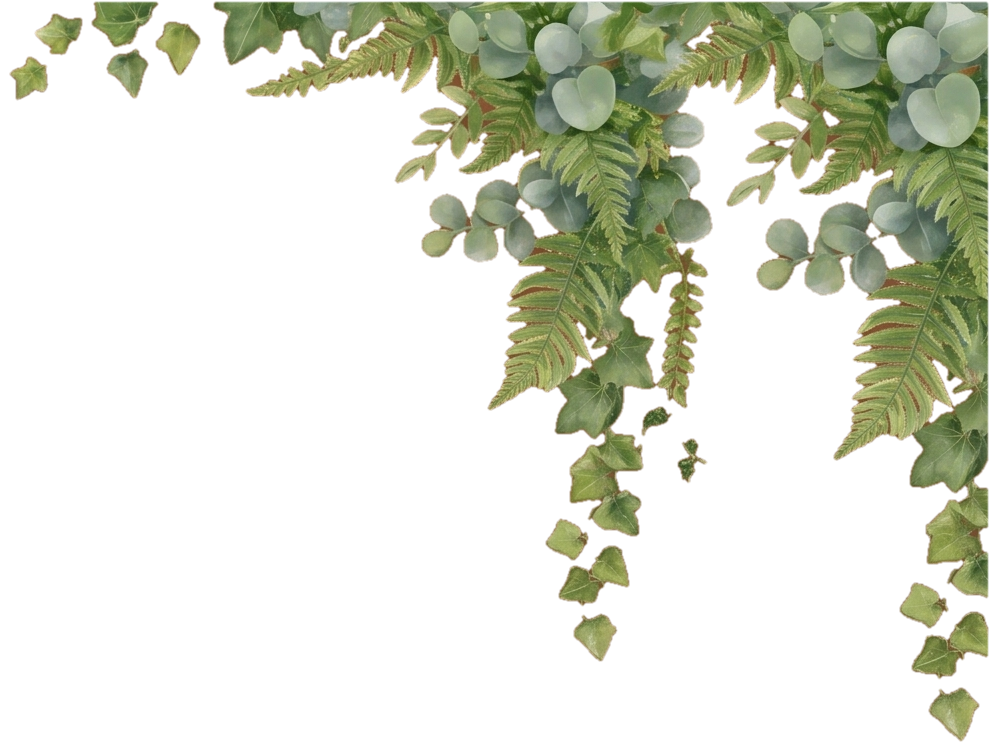
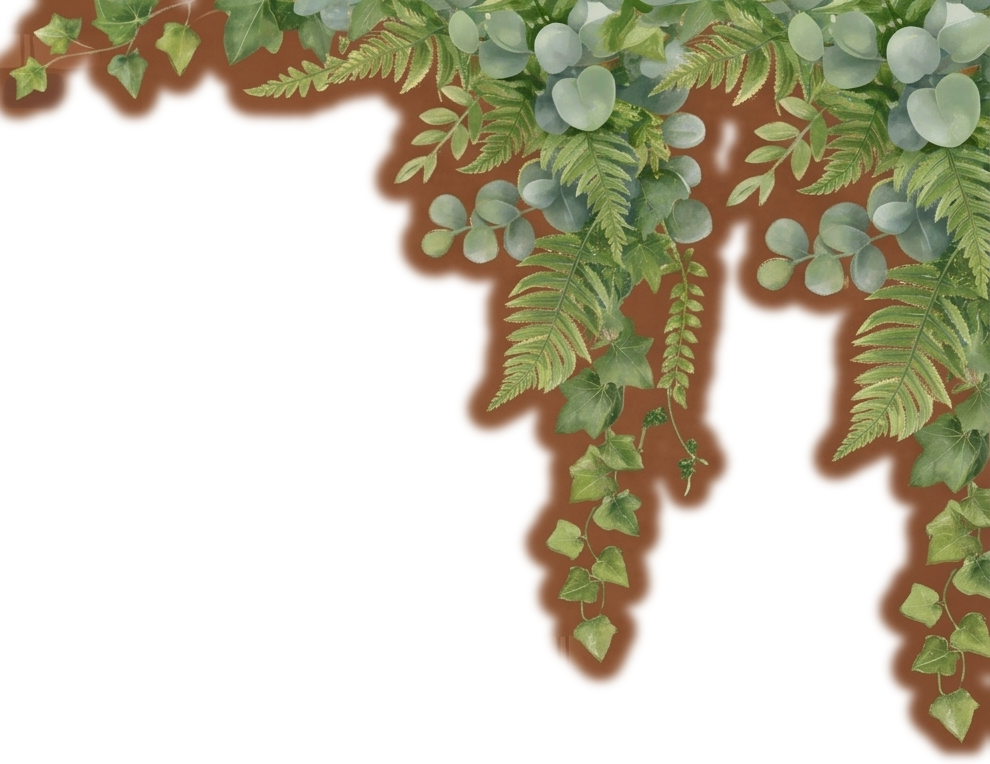
Phase 5: Scene 10 static desktop garlands and mobile top-left-only garland

Changed region(s): [[0.0, 0.0, 1.0, 1.0]]

diff --git a/src/scenes/scenes10to11.js b/src/scenes/scenes10to11.js
@@ -144,8 +144,8 @@ export function initScenes10to11(petals, prefersReducedMotion) {
       '/assets/p10-plant-3.webp',
       '/assets/p10-plant-4.webp',
       '/assets/p10-plant-5.webp',
-      '/assets/p10-garland-left.webp',
-      '/assets/p10-garland-right.webp',
+      '/assets/p10-garland-left.webp?v=2',
+      '/assets/p10-garland-right.webp?v=2',
     ].forEach((src) => {
       const pre = new Image();
       pre.src = src;
@@ -183,29 +183,25 @@ export function initScenes10to11(petals, prefersReducedMotion) {
       };
     });
 
-    // Gentle plant sway tweens (2-4 deg, 3-5s cycles; desktop garlands sway 1.5 deg + 1.02 scale)
+    // Gentle plant sway tweens (corner garlands are completely still)
     const plantTweens = [];
     if (!prefersReducedMotion) {
-      const isDesktop = window.innerWidth >= 1024;
       const plantConfigs = [
-        ['.s10-plant-sway--tl', isDesktop ? 1.5 : 2.6, 3.8, 0, isDesktop ? 1.02 : 1],
-        ['.s10-plant-sway--tr', isDesktop ? 1.5 : 2.8, 4.3, 0.4, isDesktop ? 1.02 : 1],
-        ['.s10-plant-sway--window', 3.2, 4.1, 0.2, 1],
-        ['.s10-pot-leaves--left', 2.8, 4.7, 0.6, 1],
-        ['.s10-pot-leaves--right', 3.4, 3.5, 0.3, 1],
-        ['.s10-plant-sway--bl', 2.5, 4.9, 0.5, 1],
-        ['.s10-plant-sway--br', 2.7, 3.3, 0.1, 1],
+        ['.s10-plant-sway--window', 3.2, 4.1, 0.2],
+        ['.s10-pot-leaves--left', 2.8, 4.7, 0.6],
+        ['.s10-pot-leaves--right', 3.4, 3.5, 0.3],
+        ['.s10-plant-sway--bl', 2.5, 4.9, 0.5],
+        ['.s10-plant-sway--br', 2.7, 3.3, 0.1],
       ];
-      plantConfigs.forEach(([sel, deg, dur, delay, scaleVal]) => {
+      plantConfigs.forEach(([sel, deg, dur, delay]) => {
         const el = scene10.querySelector(sel);
         if (!el) return;
         plantTweens.push(
           gsap.fromTo(
             el,
-            { rotation: -deg, scale: scaleVal },
+            { rotation: -deg },
             {
               rotation: deg,
-              scale: scaleVal,
               duration: dur,
               delay,
               ease: 'sine.inOut',

diff --git a/index.html b/index.html
@@ -273,16 +273,16 @@
     <!-- Normal Section [10] -->
     <section id="scene-10" class="section-scene scene--10" data-scene="10" data-petals="false">
       <div class="s10-stage">
-        <!-- Corner garlands (mobile: p10-plant-2; desktop: p10-garland-left & p10-garland-right) -->
+        <!-- Corner garlands (mobile: static p10-plant-2 top-left only; desktop: static p10-garland-left & p10-garland-right) -->
         <div class="s10-plant s10-plant--corner-tl" aria-hidden="true">
-          <picture class="s10-plant-sway s10-plant-sway--tl">
-            <source media="(min-width: 1024px)" srcset="/assets/p10-garland-left.webp" />
+          <picture class="s10-plant-static">
+            <source media="(min-width: 1024px)" srcset="/assets/p10-garland-left.webp?v=2" />
             <img src="/assets/p10-plant-2.webp" alt="" loading="eager" />
           </picture>
         </div>
         <div class="s10-plant s10-plant--corner-tr" aria-hidden="true">
-          <picture class="s10-plant-sway s10-plant-sway--tr">
-            <source media="(min-width: 1024px)" srcset="/assets/p10-garland-right.webp" />
+          <picture class="s10-plant-static">
+            <source media="(min-width: 1024px)" srcset="/assets/p10-garland-right.webp?v=2" />
             <img src="/assets/p10-plant-2.webp" alt="" loading="eager" />
           </picture>
         </div>

diff --git a/src/styles/scenes10to11.css b/src/styles/scenes10to11.css
@@ -124,31 +124,27 @@
   height: auto;
 }
 
+.s10-plant-static {
+  display: block;
+}
+
 .s10-plant-sway,
 .s10-pot-leaves {
   display: block;
   will-change: transform;
 }
 
-/* p10-plant-2: Corner garlands */
+/* Mobile: one large static garland top-left (behind text), top-right removed */
 .s10-plant--corner-tl {
   top: 0;
-  left: 0;
-  width: 33%;
-  z-index: 5;
+  left: -3%;
+  width: 62%;
+  height: auto;
+  z-index: 2;
 }
 
 .s10-plant--corner-tr {
-  top: 0;
-  right: 0;
-  width: 33%;
-  z-index: 5;
-  transform: scaleX(-1);
-}
-
-.s10-plant-sway--tl,
-.s10-plant-sway--tr {
-  transform-origin: 0% 0%;
+  display: none;
 }
 
 /* p10-plant-3: Hanging plant in window (clear of bride's face) */
@@ -343,17 +339,17 @@
     top: 0%;
     width: 37.28%;
     height: auto;
+    z-index: 4;
   }
   .s10-plant--corner-tr {
+    display: block;
     left: 64.03%;
     right: auto;
     top: 0%;
     width: 35.97%;
     height: auto;
     transform: none;
-  }
-  .s10-plant-sway--tr {
-    transform-origin: 100% 0%;
+    z-index: 4;
   }
   .s10-plant--window {
     top: 14.5%;

diff --git a/SPEC.md b/SPEC.md
@@ -120,8 +120,8 @@ English: We Look Forward to Your Presence! | Only | Days | Hours | Minutes | Sec
 - **Butterfly (Scenes 1 & 2)**: Replace `butterfly.png` with `assets/butterfly-open.png` and `assets/butterfly-closed.png` (both 1024×1024, stacked identically). Scene 1 butterfly always faces left (no mirroring), flaps smoothly with a short frame blend around joint `34%` left / `65%` top, floats gently in place with a small tilt, and on scroll flies toward upper-left while facing left before bursting into sparkles. Scene 2 small butterflies fly continuously across the full screen (off-screen to off-screen, 10–18s crossing, 5–6 on desktop / 3–4 on mobile, staggered with some already on screen on entry), mixing both directions (mirrored when flying right, never flipped while visible), with gentle curved paths, varied flap timings, re-entering with a new height/size/speed, layered behind Brahma and the Bengali text, and paused when off screen.
 - **Sparkles (Scene 1)**: Separate individual stars from `assets/sparkle.png` with code; place groups closer around the butterfly plus 4–6 more small ones in varied sizes (without covering butterfly or text). On desktop (`>=1024px`), add 10–14 extra sparkles on each side across the outer 25% from top to bottom. Every star twinkles independently with random delay and duration (`1.2–3s`).
 - **Scene 10 (Desktop, Mobile, Entry, Wheels, Plants & Wind)**:
-  - **Desktop (`>=1024px`)**: Full-screen `assets/p10-desktop-background.png` (no side bars), heading/names/first paragraph at upper left-centre, bride in window at upper right, second paragraph/dates below window towards centre, groom & bike at lower left (~30% larger, anchored from bottom); whole window, bride, bike, plants, and text visible at `1366×768`, `1536×864`, and `1920×1080`. Corner garlands use unmirrored `p10-garland-left.png` (`left: 0%, top: 0%, width: 37.28%`) and `p10-garland-right.png` (`left: 64.03%, top: 0%, width: 35.97%`), swaying `~1.5°` with `2%` outward scale from top-left / top-right corners. Bottom `p10-plant-1` flowers sit partly outside screen edges (`left: -4%` mirrored / `left: 92%`, `bottom: -1%`, `width: 12.5%`).
-  - **Mobile (`<1024px`)**: Background locked to `1536:2752` at `bottom: 0` so both window shutters and road are never cropped and any extra height fills naturally with terracotta wall; bride (`68%` of frame, `top: 11%`, `left: 62.5%`) sized so tiara-to-hands equals shutter height, tiara level with shutter top, elbows/hands resting on sill, head at `~72–75%` width just right of left shutter and vase, hair hanging slightly below sill and saree trail extending past right edge; bike ~15% larger anchored from bottom; heading/names strictly left of shutter and details below window (`top: 40%`) clear of bride and bike (`360×640`, `390×844`, `430×932`).
+  - **Desktop (`>=1024px`)**: Full-screen `assets/p10-desktop-background.png` (no side bars), heading/names/first paragraph at upper left-centre, bride in window at upper right, second paragraph/dates below window towards centre, groom & bike at lower left (~30% larger, anchored from bottom); whole window, bride, bike, plants, and text visible at `1366×768`, `1536×864`, and `1920×1080`. Corner garlands use unmirrored, completely still `p10-garland-left.png` (`left: 0%, top: 0%, width: 37.28%`) and `p10-garland-right.png` (`left: 64.03%, top: 0%, width: 35.97%`) flush with the top of the scene. Bottom `p10-plant-1` flowers sit partly outside screen edges (`left: -4%` mirrored / `left: 92%`, `bottom: -1%`, `width: 12.5%`).
+  - **Mobile (`<1024px`)**: Background locked to `1536:2752` at `bottom: 0` so both window shutters and road are never cropped and any extra height fills naturally with terracotta wall; one completely still `p10-plant-2.png` garland in top-left (`left: -3%, top: 0, width: 62%`, behind all text) and no top-right garland so window arch is clear; bride (`68%` of frame, `top: 11%`, `left: 62.5%`) sized so tiara-to-hands equals shutter height, tiara level with shutter top, elbows/hands resting on sill, head at `~72–75%` width just right of left shutter and vase, hair hanging slightly below sill and saree trail extending past right edge; bike ~15% larger anchored from bottom; heading/names strictly left of shutter and details below window (`top: 40%`) clear of bride and bike (`360×640`, `390×844`, `430×932`).
   - **Groom Entry & Wheels**: Preloads all Scene 10 images. Uses one `669:373` bike container with `bike-body.webp` on top and two square `bike-wheel.webp` copies behind (rear centre `16.92%` left / `80.75%` top / `17.52%` width; front centre `52.57%` left / `81.50%` top / `18.54%` width). Starts immediately when Scene 10 is ~60% visible (`top 40%` / `bottom 60%`), riding in over `4.0s` (`power2.out`) while rotating each wheel clockwise around its own centre following travel distance (capped at <=1.5 turns/sec) and stopping with the bike. Text appears as he stops; replays only after leaving and returning.
   - **Plants & Wind**: Separate animated plant layers (`p10-plant-2` corner garlands top-left & mirrored top-right pivoting from corner; `p10-plant-3` hanging in window clear of bride's face swinging from top; `p10-plant-4` right pot & `p10-plant-5` left pot behind bike with static pots and swaying leaves; `p10-plant-1` bottom-right & mirrored bottom-left clumps rotating from base, left behind wheels on mobile), each swaying `2–4°` on `3–5s` cycles with distinct timings. Weighted mesh warp on `p10-bride.png` (`572×436` inside padded canvas) waves only outer hair ends (~3px at 390px) and saree trail (~5px at 390px) on a `~2.5s` cycle, scaling up on desktop while face and body stay still.
 - **Scene 11 Scrolls**: Rotate `assets/scroll-paper.png` 90 degrees to match `page-11.png` (rollers left and right), and unroll from the centre outward on scroll (first one scroll, then the other) via clipping reveal while keeping text upright.
